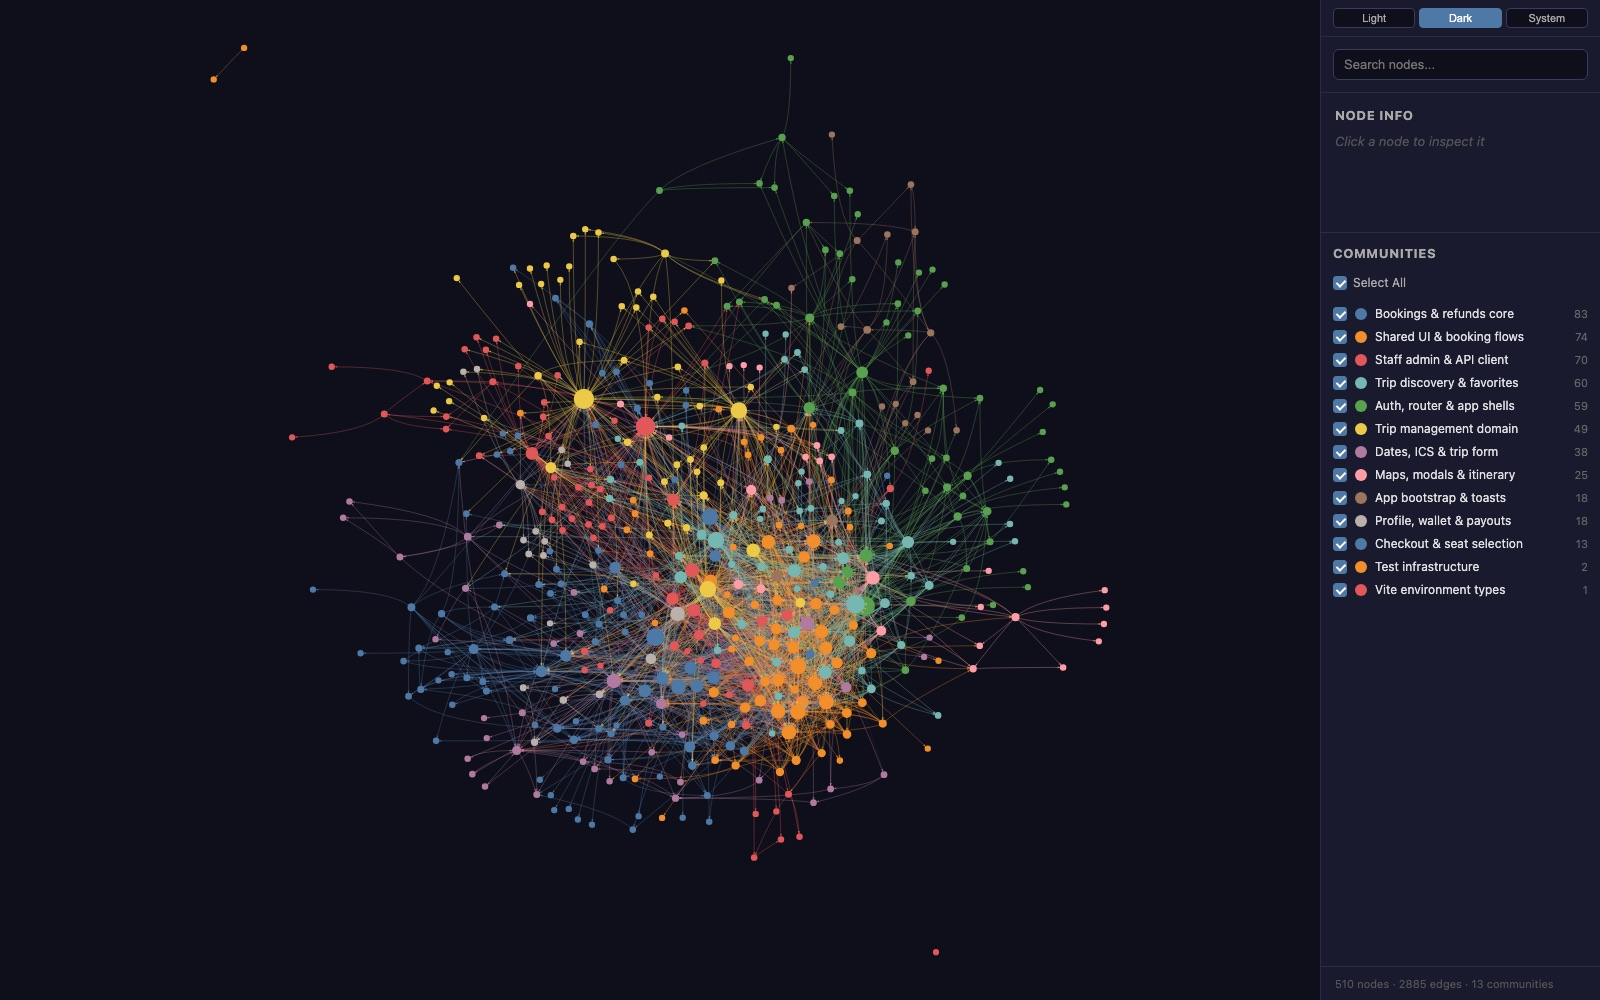
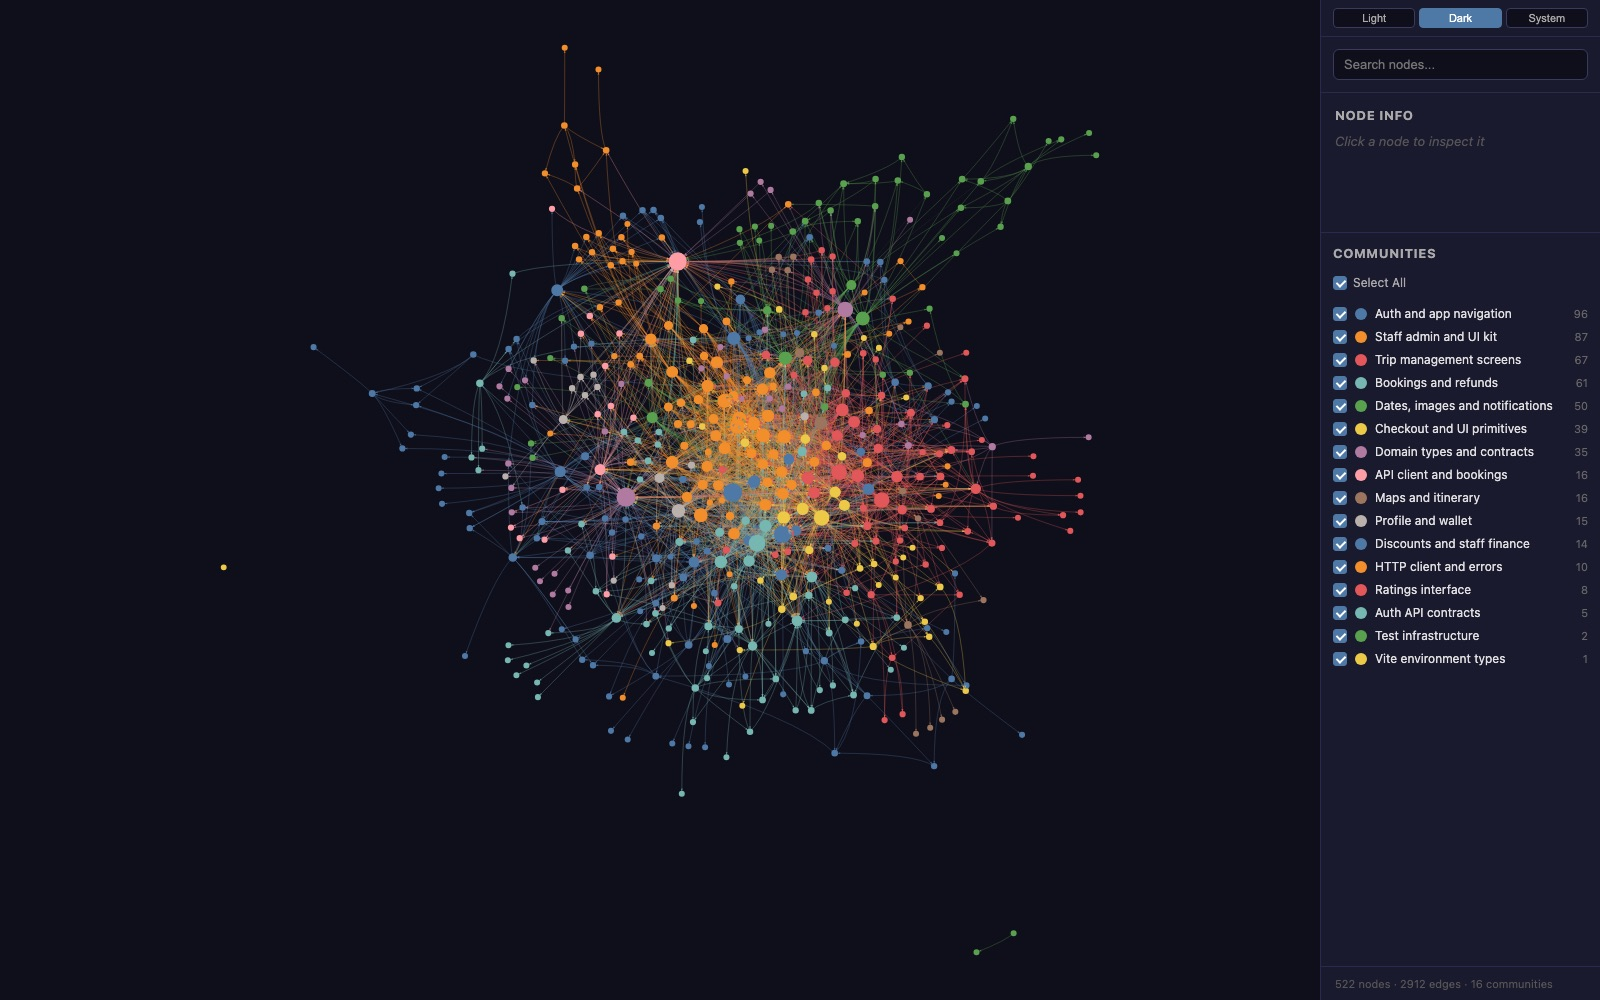
docs: refresh architecture graph after image gallery

diff --git a/docs/architecture-graph.md b/docs/architecture-graph.md
@@ -1,7 +1,7 @@
 # Arquitectura y grafo de conocimiento
 
-> Generado con **Graphify 0.9.97** sobre `src/` (89 archivos TypeScript/TSX, ~51,877 palabras).
-> Fecha: 2026-10-28 · commit `933382f8`.
+> Generado con **Graphify 0.9.97** sobre `src/` (91 archivos TypeScript/TSX, ~52,954 palabras).
+> Fecha: 2026-10-28 · commit `76e65fd5`.
 > Artefactos interactivos locales: `graphify-out/graph.html`, `graphify-out/graph.json`, `graphify-out/GRAPH_REPORT.md`.
 
 ## Lectura de arquitectura
@@ -10,22 +10,22 @@ La aplicación es una SPA React organizada en tres capas:
 
 1. **App shell:** `src/main.tsx` → `App` → providers (React Query, Auth, Toast) → router con guards por rol → `ClientShell` / `StaffShell`.
 2. **Features:** `auth`, `trips`, `bookings`, `staff`, `profile`, `favorites`, `notifications` y `company`. Cada feature agrupa páginas, hooks de datos y módulos de API.
-3. **Shared:** cliente HTTP (`apiRequest`), tipos del contrato, kit de UI, mapa/asientos y utilidades de dinero, fechas, ICS, teléfono y política de reembolso.
+3. **Shared:** cliente HTTP (`apiRequest`), tipos del contrato, kit de UI, mapa/asientos y utilidades de dinero, fechas, imágenes, ICS, teléfono y política de reembolso.
 
 Flujo de datos dominante:
 
 ```text
-Page/Component → TanStack Query hook → features/*/api.ts → apiRequest() → /api → Railway → Supabase
+Página/Componente → TanStack Query hook → features/*/api.ts → apiRequest() → /api → Railway → Supabase
 ```
 
-Los nodos puente del grafo son `apiRequest()` (85 edges), `cn()` (80), `Button()` (64), `useDocumentTitle()` (61), `EmptyState()` (57), `PageHeader()` (56) y `useAuth()` (46). Esto confirma que la app está bien centralizada en infraestructura compartida, aunque también explica la baja cohesión de las comunidades de bookings y staff.
+La galería de viajes sube hasta 10 imágenes por viaje. El cliente reduce imágenes grandes a 1920 px y WebP antes de enviarlas; el API valida formato, tamaño máximo de 20 MB, re-encodea y aplica la portada.
 
 ## Hallazgos
 
 - **Sin ciclos de imports.**
-- **Checkout (0.32)** y **Profile/Wallet (0.24)** son las comunidades más cohesivas y acotadas.
-- **Bookings/refunds (0.07)**, **Staff admin (0.06)** y **Trip management (0.09)** son comunidades amplias; son candidatas naturales a extraerse por subdominio si el proyecto sigue creciendo.
-- `apiRequest`, `cn` y `useAuth` son los principales bridges entre comunidades.
+- Comunidades más cohesivas: **Ratings (0.50)**, **Auth API contracts (0.40)**, **HTTP client/errors (0.33)**, **Profile/Wallet (0.27)** y **Discounts/finance (0.27)**.
+- Comunidades amplias o débiles: **Auth/navigation (0.05)**, **Bookings/refunds (0.08)**, **Domain types (0.08)** y **Dates/images/notifications (0.08)**. Son candidatas a subdividirse por subdominio.
+- `apiRequest`, `cn`, `useAuth`, `useToast` y el kit de UI son los principales puentes entre comunidades.
 - El CSS de tokens (`src/shared/styles/tokens.css`) no entró al grafo por la heurística de archivos sensibles (la palabra “tokens” en el nombre), no porque contenga secretos.
 
 ## Reporte de Graphify
@@ -33,32 +33,35 @@ Los nodos puente del grafo son `apiRequest()` (85 edges), `cn()` (80), `Button()
 # Graph Report - src  (2026-10-28)
 
 ## Corpus Check
-- 89 files · ~51,877 words
+- 91 files · ~52,954 words
 - Verdict: corpus is large enough that graph structure adds value.
 - Unclassified: 1 file(s) not represented in the graph (top: .css 1)
 
 ## Summary
-- 510 nodes · 2885 edges · 13 communities (11 shown, 2 thin omitted)
-- Extraction: 99% EXTRACTED · 1% INFERRED · 0% AMBIGUOUS · INFERRED: 27 edges (avg confidence: 0.85)
+- 522 nodes · 2912 edges · 16 communities (14 shown, 2 thin omitted)
+- Extraction: 99% EXTRACTED · 1% INFERRED · 0% AMBIGUOUS · INFERRED: 28 edges (avg confidence: 0.85)
 - Token cost: 0 input · 0 output
 
 ## Graph Freshness
-- Built from commit: `933382f8`
+- Built from commit: `76e65fd5`
 - Run `git rev-parse HEAD` and compare to check if the graph is stale.
 - Run `graphify update .` after code changes (no API cost).
 
 ## Community Hubs (Navigation)
-- Bookings & refunds core
-- Shared UI & booking flows
-- Staff admin & API client
-- Trip discovery & favorites
-- Auth, router & app shells
-- Trip management domain
-- Dates, ICS & trip form
-- Maps, modals & itinerary
-- App bootstrap & toasts
-- Profile, wallet & payouts
-- Checkout & seat selection
+- HTTP client and errors
+- Auth and app navigation
+- Staff admin and UI kit
+- Discounts and staff finance
+- Auth API contracts
+- Trip management screens
+- Bookings and refunds
+- Dates, images and notifications
+- Checkout and UI primitives
+- Domain types and contracts
+- API client and bookings
+- Maps and itinerary
+- Profile and wallet
+- Ratings interface
 
 ## God Nodes (most connected - your core abstractions)
 1. `apiRequest()` - 85 edges
@@ -73,67 +76,79 @@ Los nodos puente del grafo son `apiRequest()` (85 edges), `cn()` (80), `Button()
 10. `useAuth()` - 46 edges
 
 ## Surprising Connections (you probably didn't know these)
-- `socialLogin()` --calls--> `apiRequest()`  [EXTRACTED]
-  features/auth/api.ts → shared/api/client.ts
-- `AppProviders()` --calls--> `AuthProvider()`  [EXTRACTED]
-  app/providers.tsx → features/auth/AuthContext.tsx
-- `NotFoundPage()` --calls--> `buttonClasses()`  [EXTRACTED]
-  app/router.tsx → shared/components/ui/Button.tsx
-- `login()` --calls--> `apiRequest()`  [EXTRACTED]
-  features/auth/api.ts → shared/api/client.ts
-- `register()` --calls--> `apiRequest()`  [EXTRACTED]
-  features/auth/api.ts → shared/api/client.ts
-- `LoginPage()` --calls--> `errorMessage()`  [EXTRACTED]
-  features/auth/pages/LoginPage.tsx → shared/api/client.ts
+- `StaffCheckinPage()` --indirect_call--> `listManageTrips()`  [INFERRED]
+  src/features/staff/pages/StaffCheckinPage.tsx → src/features/trips/api.ts
+- `StaffExpensesPage()` --indirect_call--> `listManageTrips()`  [INFERRED]
+  src/features/staff/pages/StaffExpensesPage.tsx → src/features/trips/api.ts
+- `StaffPayoutsPage()` --indirect_call--> `listUsers()`  [INFERRED]
+  src/features/staff/pages/StaffPayoutsPage.tsx → src/features/profile/api.ts
+- `StaffScanPage()` --indirect_call--> `listManageTrips()`  [INFERRED]
+  src/features/staff/pages/StaffScanPage.tsx → src/features/trips/api.ts
+- `StaffTripBookingsPage()` --indirect_call--> `listManageTrips()`  [INFERRED]
+  src/features/staff/pages/StaffTripBookingsPage.tsx → src/features/trips/api.ts
+- `StaffDiscountsPage()` --indirect_call--> `listManageTrips()`  [INFERRED]
+  src/features/staff/pages/StaffDiscountsPage.tsx → src/features/trips/api.ts
 
 ## Import Cycles
 - None detected.
 
-## Communities (13 total, 2 thin omitted)
+## Communities (16 total, 2 thin omitted)
 
-### Community 0 - "Bookings & refunds core"
-Cohesion: 0.07
-Nodes (67): cancelBooking(), cancelTicket(), listAllBookings(), listTripBookings(), listUserBookings(), payWithWallet(), registerPayment(), updateBookingStatus() (+59 more)
+### Community 11 - "HTTP client and errors"
+Cohesion: 0.33
+Nodes (7): ApiError, RequestOptions, ApiErrorKind, apiUpload(), parseError(), kindFromStatus(), messageFromStatus()
 
-### Community 1 - "Shared UI & booking flows"
+### Community 0 - "Auth and app navigation"
+Cohesion: 0.05
+Nodes (64): AuthContextValue, Mode, LoginValues, RegisterValues, Session, AuthResponse, NavItem, TextFieldProps (+56 more)
+
+### Community 1 - "Staff admin and UI kit"
 Cohesion: 0.13
-Nodes (54): isStaffRole(), addPassengers(), checkinBooking(), checkinByToken(), checkinPassenger(), getBooking(), AddPassengersPage(), Row (+46 more)
+Nodes (63): Row, CreateForm, AuditLog, SelectProps, SwitchProps, TextAreaProps, checkinBooking(), checkinPassenger() (+55 more)
 
-### Community 2 - "Staff admin & API client"
-Cohesion: 0.06
-Nodes (60): createCoordinator(), createDiscount(), createExpense(), deleteCoordinator(), deleteDiscount(), deleteExpense(), listAuditLog(), listCoordinators() (+52 more)
+### Community 10 - "Discounts and staff finance"
+Cohesion: 0.27
+Nodes (12): FormState, Discount, DiscountInput, PayoutRequest, TripExpense, createDiscount(), deleteDiscount(), listDiscounts() (+4 more)
 
-### Community 3 - "Trip discovery & favorites"
-Cohesion: 0.10
-Nodes (45): useFavorites(), useToggleFavorite(), FavoritesPage(), addFavorite(), getMyRating(), getTrip(), listFavorites(), listTrips() (+37 more)
+### Community 13 - "Auth API contracts"
+Cohesion: 0.40
+Nodes (4): LoginRequest, RegisterRequest, SocialAuthResponse, socialLogin()
 
-### Community 4 - "Auth, router & app shells"
-Cohesion: 0.08
-Nodes (40): RequireAuth(), RequireGuest(), RequireRole(), HomeRedirect(), NotFoundPage(), login(), register(), AuthContext (+32 more)
-
-### Community 5 - "Trip management domain"
+### Community 2 - "Trip management screens"
 Cohesion: 0.09
-Nodes (37): socialLogin(), InfoLine(), StaffTripDetailPage(), Filter, StaffTripsPage(), cancelTrip(), deleteTrip(), finalizeTrip() (+29 more)
+Nodes (52): FormState, Filter, TripCardProps, Tone, InfoLine(), StaffTripDetailPage(), emptyForm(), StaffTripOptionsPage() (+44 more)
 
-### Community 6 - "Dates, ICS & trip form"
-Cohesion: 0.10
-Nodes (32): groupNotifications(), CATEGORIES, defaultEnd(), defaultStart(), emptyForm(), FormState, fromTrip(), StaffTripFormPage() (+24 more)
+### Community 3 - "Bookings and refunds"
+Cohesion: 0.08
+Nodes (49): Booking, BookingStatus, PaymentStatus, PayoutStatus, Tone, MoneyValue, cancelBooking(), cancelTicket() (+41 more)
 
-### Community 7 - "Maps, modals & itinerary"
-Cohesion: 0.13
-Nodes (19): Mode, SearchResult, StaffTripMapPage(), createPoi(), deletePoi(), updatePoi(), updateRoute(), CDMX (+11 more)
+### Community 4 - "Dates, images and notifications"
+Cohesion: 0.08
+Nodes (41): Tag, FormState, Notification, isStaffRole(), classify(), groupNotifications(), NotificationsPage(), listNotifications() (+33 more)
 
-### Community 8 - "App bootstrap & toasts"
-Cohesion: 0.16
-Nodes (10): App(), AppProviders(), queryClient, router, ToastContext, ToastContextValue, ToastItem, ToastProvider() (+2 more)
+### Community 5 - "Checkout and UI primitives"
+Cohesion: 0.11
+Nodes (29): CheckoutDraft, PassengerDraft, BookingOptionInput, Seat, SeatRow, ButtonProps, ButtonVariant, Size (+21 more)
 
-### Community 9 - "Profile, wallet & payouts"
-Cohesion: 0.24
-Nodes (15): getMyProfile(), getMyStats(), getWallet(), listMyPayouts(), requestPayout(), updateMyProfile(), ProfilePage(), transactionLabels (+7 more)
+### Community 6 - "Domain types and contracts"
+Cohesion: 0.08
+Nodes (31): AdminStats, BookingItem, BookingPassenger, CancelTicketResult, CapacityRequest, Coordinator, CreateCoordinatorRequest, CreatedCoordinator (+23 more)
 
-### Community 10 - "Checkout & seat selection"
-Cohesion: 0.32
-Nodes (11): createBooking(), CheckoutDraft, clearCheckoutDraft(), key(), readCheckoutDraft(), saveCheckoutDraft(), CheckoutPage(), PassengerDraft (+3 more)
+### Community 7 - "API client and bookings"
+Cohesion: 0.17
+Nodes (15): CancelBookingResult, CheckinTokenResult, CreateBookingRequest, CreatePassengersRequest, Payment, PaymentMethod, addPassengers(), checkinByToken() (+7 more)
+
+### Community 8 - "Maps and itinerary"
+Cohesion: 0.19
+Nodes (13): Mode, SearchResult, MapMarker, MapMarkerKind, MapViewProps, StaffTripMapPage(), createPoi(), deletePoi() (+5 more)
+
+### Community 9 - "Profile and wallet"
+Cohesion: 0.27
+Nodes (13): UserProfile, WalletSummary, WalletType, getMyProfile(), getMyStats(), getWallet(), listMyPayouts(), requestPayout() (+5 more)
+
+### Community 12 - "Ratings interface"
+Cohesion: 0.50
+Nodes (6): getMyRating(), getTrip(), upsertRating(), RateTripPage(), ratingLabel(), StarRating()
 
 ## Knowledge Gaps
 - **2 thin communities (<3 nodes) omitted from report** — run `graphify query` to explore isolated nodes.
@@ -141,15 +156,15 @@ Nodes (11): createBooking(), CheckoutDraft, clearCheckoutDraft(), key(), readChe
 ## Suggested Questions
 _Questions this graph is uniquely positioned to answer:_
 
-- **Why does `cn()` connect `Trip discovery & favorites` to `Bookings & refunds core`, `Shared UI & booking flows`, `Staff admin & API client`, `Auth, router & app shells`, `Trip management domain`, `Maps, modals & itinerary`, `App bootstrap & toasts`, `Profile, wallet & payouts`, `Checkout & seat selection`?**
-  _High betweenness centrality (0.061) - this node is a cross-community bridge._
-- **Should `Bookings & refunds core` be split into smaller, more focused modules?**
-  _Cohesion score 0.07199529826623567 - nodes in this community are weakly interconnected._
-- **Why does `apiRequest()` connect `Staff admin & API client` to `Bookings & refunds core`, `Shared UI & booking flows`, `Trip discovery & favorites`, `Auth, router & app shells`, `Trip management domain`, `Dates, ICS & trip form`, `Maps, modals & itinerary`, `Profile, wallet & payouts`, `Checkout & seat selection`?**
-  _High betweenness centrality (0.047) - this node is a cross-community bridge._
-- **Should `Shared UI & booking flows` be split into smaller, more focused modules?**
-  _Cohesion score 0.13069233617178821 - nodes in this community are weakly interconnected._
-- **Why does `useAuth()` connect `Auth, router & app shells` to `Bookings & refunds core`, `Shared UI & booking flows`, `Trip discovery & favorites`, `Trip management domain`, `Dates, ICS & trip form`, `Maps, modals & itinerary`, `Profile, wallet & payouts`, `Checkout & seat selection`?**
+- **Why does `cn()` connect `Auth and app navigation` to `Staff admin and UI kit`, `Trip management screens`, `Bookings and refunds`, `Dates, images and notifications`, `Checkout and UI primitives`, `Maps and itinerary`, `Profile and wallet`, `Ratings interface`?**
+  _High betweenness centrality (0.058) - this node is a cross-community bridge._
+- **Should `Auth and app navigation` be split into smaller, more focused modules?**
+  _Cohesion score 0.0506578947368421 - nodes in this community are weakly interconnected._
+- **Why does `apiRequest()` connect `API client and bookings` to `Auth and app navigation`, `Staff admin and UI kit`, `Trip management screens`, `Bookings and refunds`, `Dates, images and notifications`, `Checkout and UI primitives`, `Domain types and contracts`, `Maps and itinerary`, `Profile and wallet`, `Discounts and staff finance`, `HTTP client and errors`, `Ratings interface`, `Auth API contracts`?**
+  _High betweenness centrality (0.045) - this node is a cross-community bridge._
+- **Should `Staff admin and UI kit` be split into smaller, more focused modules?**
+  _Cohesion score 0.12643678160919541 - nodes in this community are weakly interconnected._
+- **Why does `useAuth()` connect `Auth and app navigation` to `Staff admin and UI kit`, `Trip management screens`, `Bookings and refunds`, `Dates, images and notifications`, `Checkout and UI primitives`, `Maps and itinerary`, `Profile and wallet`?**
   _High betweenness centrality (0.019) - this node is a cross-community bridge._
-- **Should `Staff admin & API client` be split into smaller, more focused modules?**
-  _Cohesion score 0.06376811594202898 - nodes in this community are weakly interconnected._
+- **Should `Trip management screens` be split into smaller, more focused modules?**
+  _Cohesion score 0.08864767073722297 - nodes in this community are weakly interconnected._

diff --git a/README.md b/README.md
@@ -23,7 +23,7 @@ Construida con **React 19 + TypeScript + Vite + Tailwind CSS v4**, siguiendo el 
 
 ### Back-office
 
-- **Viajes:** listado, pausar/reactivar, crear/editar con hotel, dos pisos, fechas, precios y publicación de imagen.
+- **Viajes:** listado, pausar/reactivar, crear/editar con hotel, dos pisos, fechas, precios y galería de hasta 10 imágenes optimizadas.
 - **Detalle del viaje:** KPIs, pasajeros, solicitudes de cupo, opciones, unidad de transporte, opiniones, finalizar/reabrir y eliminación.
 - **Reservas y pagos:** filtros, búsqueda, registro de pagos manuales, confirmación, cancelación y cancelación de boletos.
 - **Check-in:** apertura/cierre, marcado de salida, abordaje del titular y acompañantes, QR y escaneo con cámara (`jsQR`) con verificación manual de respaldo.
@@ -103,7 +103,7 @@ El mapa de arquitectura generado con Graphify está en [docs/architecture-graph.
 
 ![Grafo de conocimiento de src](docs/screenshots/grafo-conocimiento.jpg)
 
-- **510 nodos · 2,885 aristas · 13 comunidades** sobre 89 archivos de `src/`.
+- **522 nodos · 2,912 aristas · 16 comunidades** sobre 91 archivos de `src/`.
 - Salida interactiva local: `graphify-out/graph.html` (no versionada).
 - Para regenerarlo: `graphify src` o pide “usa graphify para actualizar el grafo de src”.
 
